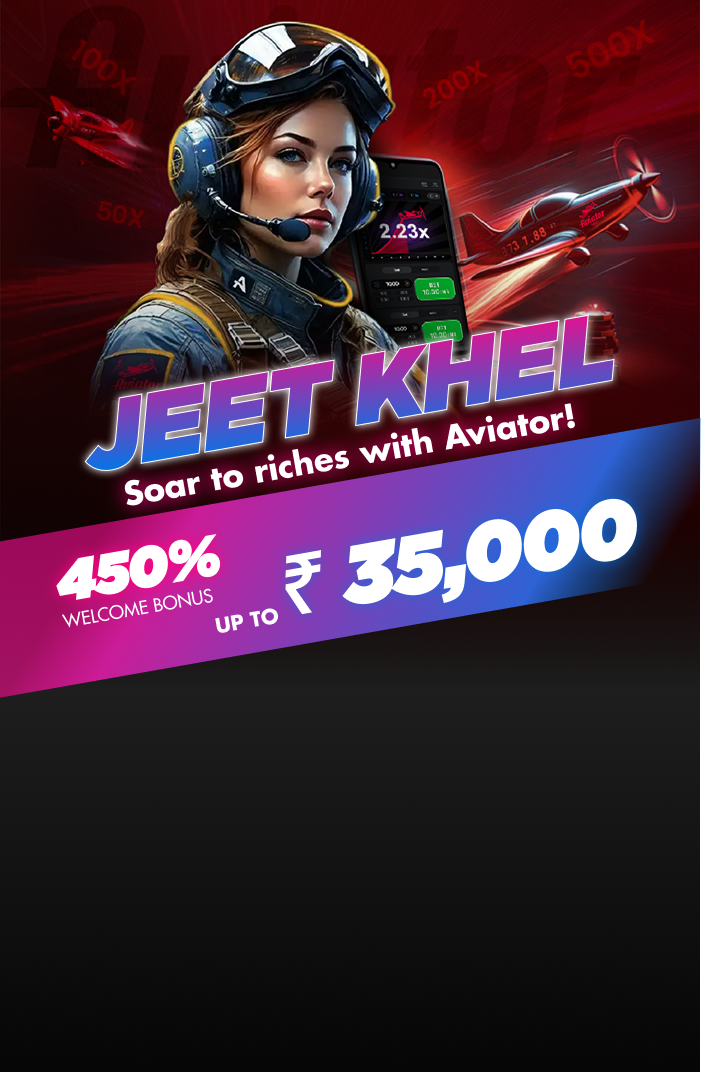
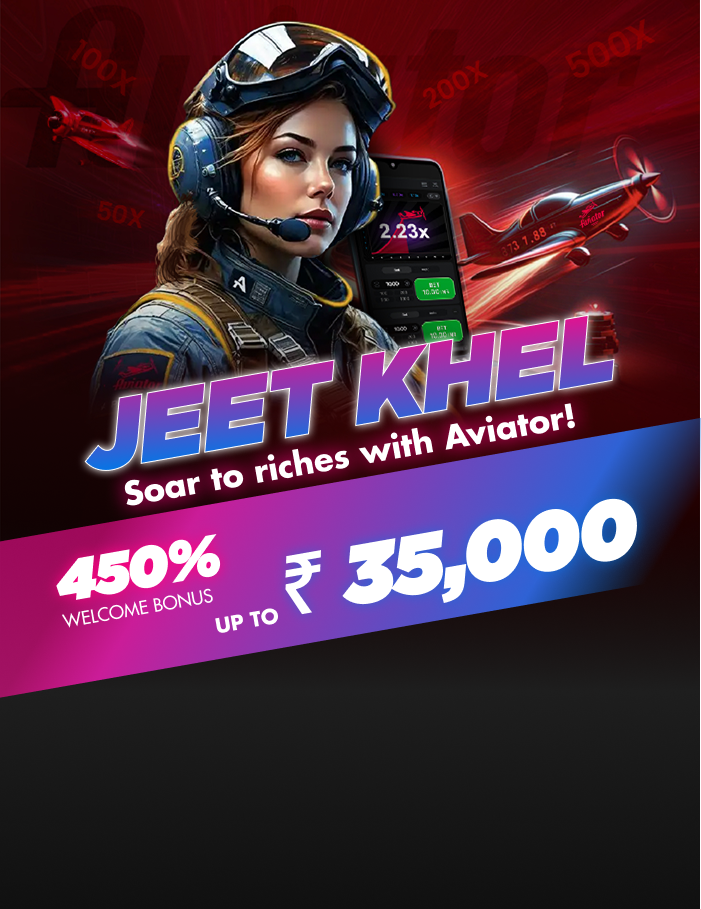
up

diff --git a/res/css/style.css b/res/css/style.css
@@ -93,10 +93,10 @@
     .main {
         background-image: url('../images/android-1.png') !important;
         background-repeat: no-repeat;
-        background-size: 100% auto;
+        /* background-size: 100% 100%; */
         background-position: center;
         width: 100%;
-        height: auto !important;
+        height: 100vh !important;
         overflow: hidden;
     }
 
